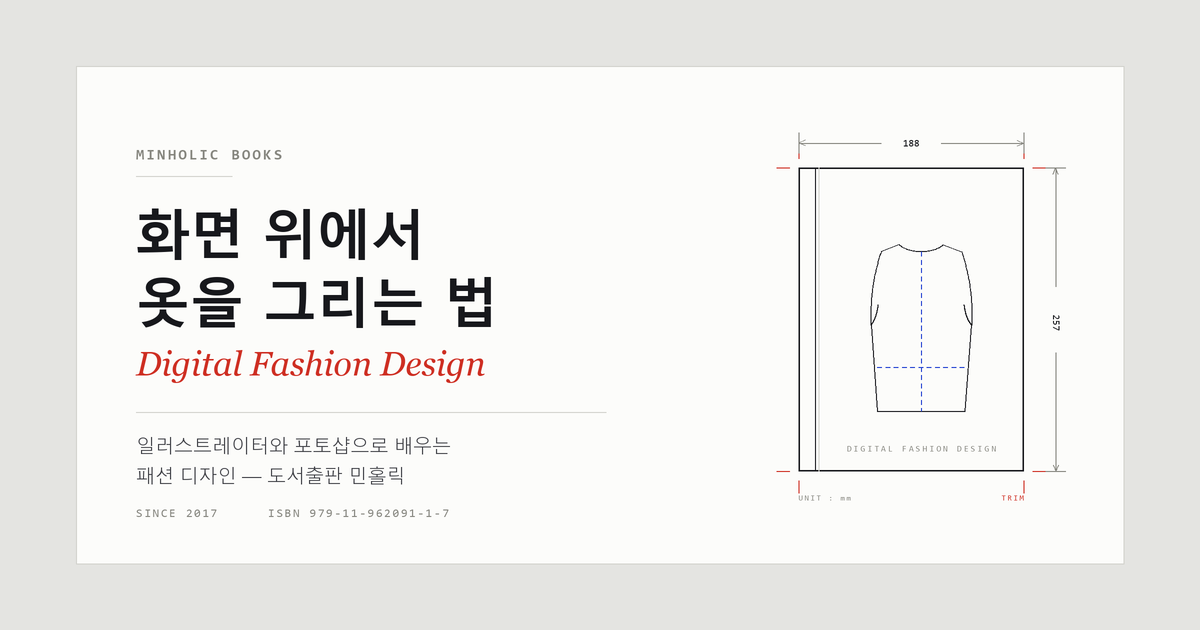
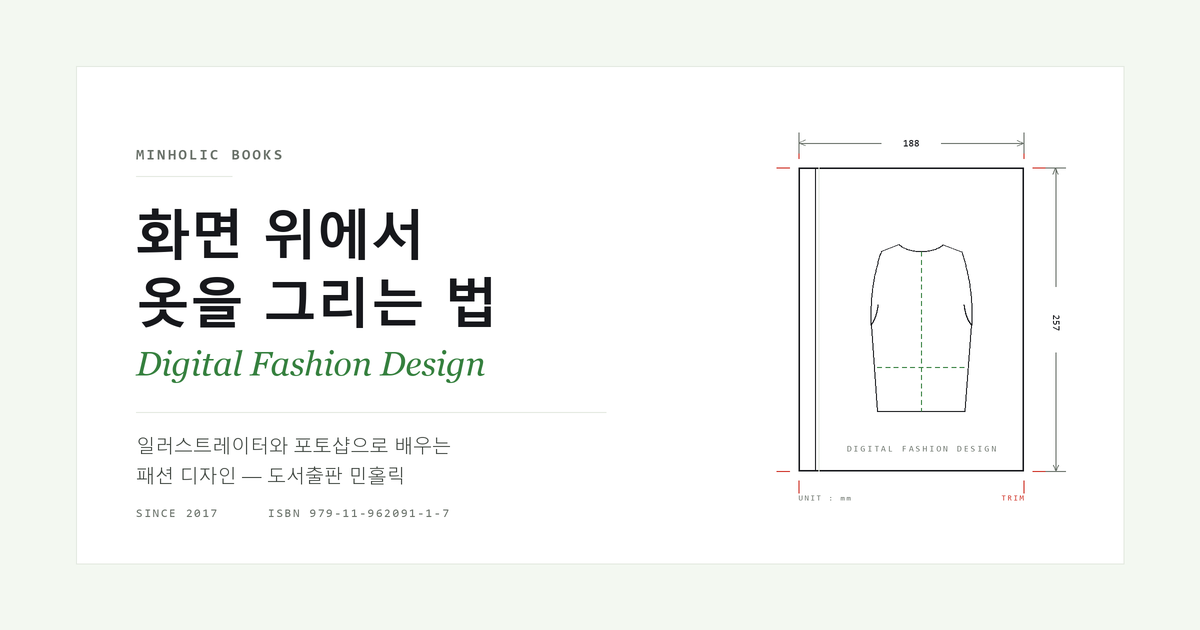
봄 팔레트로 개편 — 흰 바탕, 포인트 컬러 빨강·초록
바탕을 회색 캔버스에서 흰색으로 바꾸고 파랑 액센트를 초록으로 교체했다.

빨강과 초록을 같은 비중으로 쓰면 크리스마스처럼 보이므로 역할을 갈랐다.
빨강은 재단 표시·TRIM·도서 번호·워드마크 같은 인쇄 표시 계열에만 두고,
호버·포커스·태그·히어로 라틴은 전부 초록으로 옮겼다. 초록이 지배적이고
빨강은 소량이라 두 색이 부딪히지 않는다.

바탕이 흰색이 되면서 판면을 테두리로만 구분하게 됐다. 구분이 약한 곳
(연락처 카드, 소식 호버)에는 옅은 초록 --wash 를 깔았다.

--muted 는 흰 바탕과 --wash 두 곳에서 쓰이므로 둘 다 AA 를 넘겨야 한다.
초안의 #6E766E 는 wash 위에서 4.35:1 로 미달이라 #697169 로 내렸다.
개편 전 --muted 는 회색 캔버스 위에서 3.0:1 로 AA 미달이었다.

히어로 SVG 의 하드코딩된 색을 var() 로 바꿨다. 인라인 SVG 는 같은 문서의
커스텀 속성을 상속하므로, 앞으로 팔레트를 바꿀 때 SVG 를 따로 안 고쳐도 된다.

og.png 와 아이콘 3개는 구워진 이미지라 자동으로 안 바뀌므로 새 팔레트로
다시 생성했다. 안 하면 카카오톡 공유 미리보기만 옛 회색·파랑으로 남는다.

320~1600px 에서 가로 넘침 없음을 확인했다.

Changed region(s): [[0.0925, 0.5429, 0.4008, 0.6032]]

diff --git a/index.html b/index.html
@@ -13,7 +13,7 @@
 <link rel="icon" href="favicon.svg" type="image/svg+xml">
 <link rel="icon" href="favicon-32.png" sizes="32x32" type="image/png">
 <link rel="apple-touch-icon" href="apple-touch-icon.png">
-<meta name="theme-color" content="#E4E4E1">
+<meta name="theme-color" content="#FFFFFF">
 
 <!-- 소셜 공유 (Open Graph / 카카오톡 / 트위터) -->
 <meta property="og:type" content="website">
@@ -33,13 +33,18 @@
 <link href="https://fonts.googleapis.com/css2?family=Bodoni+Moda:ital,opsz,wght@0,6..96,400;0,6..96,500;1,6..96,400&family=IBM+Plex+Mono:wght@400;500&family=IBM+Plex+Sans+KR:wght@300;400;500;600;700&display=swap" rel="stylesheet">
 <style>
 :root{
-  --canvas:#E4E4E1;
-  --artboard:#FCFCFA;
-  --ink:#17181C;
-  --muted:#86867F;
-  --rule:#D2D2CD;
-  --red:#CE2E22;
-  --blue:#1F3FD1;
+  /* 봄 팔레트 — 흰 종이 바탕에 새잎 초록.
+     초록 = 브랜드·상호작용, 빨강 = 인쇄 재단 표시 계열.
+     둘을 같은 비중으로 쓰면 크리스마스처럼 보이므로 역할을 섞지 말 것. */
+  --canvas:#FFFFFF;   /* 페이지 바탕 */
+  --artboard:#FFFFFF; /* 판면 — 테두리로만 구분 */
+  --wash:#F3F8F1;     /* 옅은 초록 바탕 (호버, 연락처 카드) */
+  --ink:#17181C;      /* 제목·주요 선 */
+  --body:#3E453F;     /* 본문 */
+  --muted:#697169;    /* 라벨, 보조 텍스트, 치수선. 흰 바탕 5.0:1 / wash 4.7:1 로 둘 다 AA 통과 */
+  --rule:#E3E9E0;     /* 구분선, 테두리 */
+  --red:#CE2E22;      /* 재단 표시, TRIM, 도서 번호, 워드마크 */
+  --green:#35803E;    /* 히어로 라틴, 태그, 호버, 포커스 링, 도식화 중심선 */
 
   --kr:'IBM Plex Sans KR',system-ui,sans-serif;
   --mono:'IBM Plex Mono',ui-monospace,monospace;
@@ -71,7 +76,7 @@ img{max-width:100%;display:block}
 }
 .wrap{max-width:1120px;margin:0 auto;padding:0 var(--pad)}
 
-/* 아트보드 = 흰 판면 */
+/* 아트보드 = 판면. 바탕이 흰색이므로 테두리가 유일한 구분선이다 */
 .artboard{
   background:var(--artboard);
   border:1px solid var(--rule);
@@ -81,7 +86,7 @@ img{max-width:100%;display:block}
 /* ---------- 헤더 ---------- */
 header{
   position:sticky;top:0;z-index:50;
-  background:rgba(228,228,225,.92);
+  background:rgba(255,255,255,.88);
   backdrop-filter:blur(8px);
   border-bottom:1px solid var(--rule);
 }
@@ -96,7 +101,7 @@ nav a{
   font-size:13.5px;font-weight:500;text-decoration:none;color:var(--muted);
   padding:4px 0;border-bottom:1px solid transparent;transition:.18s;
 }
-nav a:hover{color:var(--ink);border-bottom-color:var(--red)}
+nav a:hover{color:var(--ink);border-bottom-color:var(--green)}
 
 /* ---------- 히어로 ---------- */
 .hero{padding:clamp(40px,7vw,84px) 0 clamp(48px,8vw,96px)}
@@ -114,10 +119,10 @@ nav a:hover{color:var(--ink);border-bottom-color:var(--red)}
 }
 .hero .latin{
   font-family:var(--didone);font-style:italic;font-weight:400;
-  font-size:clamp(19px,3vw,28px);color:var(--red);
+  font-size:clamp(19px,3vw,28px);color:var(--green);
   display:block;letter-spacing:.01em;margin-top:6px;
 }
-.hero p{max-width:44ch;color:#3D3E44;margin:20px 0 0;font-size:clamp(14.5px,1.5vw,16px)}
+.hero p{max-width:44ch;color:var(--body);margin:20px 0 0;font-size:clamp(14.5px,1.5vw,16px)}
 
 .specs{
   list-style:none;padding:20px 0 0;margin:26px 0 0;
@@ -133,7 +138,7 @@ nav a:hover{color:var(--ink);border-bottom-color:var(--red)}
   padding:13px 22px;font-size:14px;font-weight:500;
   transition:.18s;
 }
-.cta:hover{background:var(--red)}
+.cta:hover{background:var(--green)}
 .cta span{font-family:var(--mono);font-size:15px;line-height:1}
 
 /* ---------- 섹션 공통 ---------- */
@@ -145,7 +150,7 @@ section{padding:clamp(48px,7vw,92px) 0;border-top:1px solid var(--rule)}
 /* ---------- 도서 ---------- */
 .books{display:grid;grid-template-columns:repeat(auto-fill,minmax(260px,1fr));gap:clamp(16px,2.4vw,26px)}
 .book{padding:26px 24px 24px;display:flex;flex-direction:column;transition:.2s;text-decoration:none;color:inherit}
-.book:hover{transform:translateY(-3px);border-color:var(--ink)}
+.book:hover{transform:translateY(-3px);border-color:var(--green)}
 /* 재단 표시 */
 .book::before,.book::after{
   content:"";position:absolute;width:9px;height:9px;pointer-events:none;
@@ -156,7 +161,7 @@ section{padding:clamp(48px,7vw,92px) 0;border-top:1px solid var(--rule)}
 .book h3{font-size:18px;font-weight:600;letter-spacing:-.025em;margin:12px 0 0;line-height:1.4}
 .book .sub{font-family:var(--didone);font-style:italic;font-size:14px;color:var(--muted);margin-top:5px;flex:none}
 /* 설명 문단만 남는 공간을 흡수해야 카드 높이가 달라도 위쪽이 벌어지지 않는다 */
-.book p{font-size:14px;color:#4B4C52;margin:14px 0 0;flex:1}
+.book p{font-size:14px;color:var(--body);margin:14px 0 0;flex:1}
 .book .meta{
   margin-top:20px;padding-top:14px;border-top:1px dashed var(--rule);
   font-family:var(--mono);font-size:11px;color:var(--muted);
@@ -169,20 +174,21 @@ section{padding:clamp(48px,7vw,92px) 0;border-top:1px solid var(--rule)}
   display:grid;grid-template-columns:96px 1fr auto;gap:20px;align-items:baseline;
   padding:20px 4px;border-bottom:1px solid var(--rule);text-decoration:none;transition:.16s;
 }
-.news a:hover{background:var(--artboard);padding-left:14px}
+.news a:hover{background:var(--wash);padding-left:14px}
 .news time{font-family:var(--mono);font-size:12px;color:var(--muted)}
 .news .t{font-size:15.5px;font-weight:500;letter-spacing:-.02em}
-.news .tag{font-family:var(--mono);font-size:10.5px;letter-spacing:.1em;color:var(--blue);text-transform:uppercase}
+.news .tag{font-family:var(--mono);font-size:10.5px;letter-spacing:.1em;color:var(--green);text-transform:uppercase}
 
 /* ---------- 소개 ---------- */
 .about{display:grid;grid-template-columns:minmax(0,1.15fr) minmax(0,.85fr);gap:clamp(28px,5vw,64px)}
-.about p{margin:0 0 16px;font-size:15px;color:#3D3E44;max-width:52ch}
-.contact{padding:30px 28px;align-self:start}
+.about p{margin:0 0 16px;font-size:15px;color:var(--body);max-width:52ch}
+/* 흰 바탕에서는 테두리만으로 약하므로 연락처 카드만 옅은 초록을 깐다 */
+.contact{padding:30px 28px;align-self:start;background:var(--wash)}
 .contact dl{margin:0;display:grid;grid-template-columns:64px 1fr;gap:13px 16px;align-items:baseline}
 .contact dt{font-family:var(--mono);font-size:10.5px;letter-spacing:.1em;color:var(--muted);text-transform:uppercase}
 .contact dd{margin:0;font-size:14px;font-weight:500;word-break:break-all}
-.contact dd a{text-decoration:none;border-bottom:1px solid var(--rule)}
-.contact dd a:hover{border-bottom-color:var(--red);color:var(--red)}
+.contact dd a{text-decoration:none;border-bottom:1px solid var(--muted)}
+.contact dd a:hover{border-bottom-color:var(--green);color:var(--green)}
 
 footer{
   border-top:1px solid var(--rule);padding:30px 0 44px;
@@ -194,7 +200,7 @@ footer .label{margin-left:auto}
 .rise{opacity:0;transform:translateY(14px);transition:opacity .5s ease,transform .5s ease}
 .rise.in{opacity:1;transform:none}
 
-:focus-visible{outline:2px solid var(--blue);outline-offset:3px}
+:focus-visible{outline:2px solid var(--green);outline-offset:3px}
 
 @media (max-width:860px){
   .hero-grid{grid-template-columns:1fr}
@@ -235,15 +241,15 @@ footer .label{margin-left:auto}
         <svg viewBox="0 0 400 470" role="img" aria-label="교재 판형을 치수선으로 표시한 도식화">
           <defs>
             <marker id="ar" markerWidth="8" markerHeight="8" refX="7" refY="4" orient="auto">
-              <path d="M0,1 L7,4 L0,7" fill="none" stroke="#86867F" stroke-width="1"/>
+              <path d="M0,1 L7,4 L0,7" fill="none" stroke="var(--muted)" stroke-width="1"/>
             </marker>
             <marker id="al" markerWidth="8" markerHeight="8" refX="1" refY="4" orient="auto">
-              <path d="M8,1 L1,4 L8,7" fill="none" stroke="#86867F" stroke-width="1"/>
+              <path d="M8,1 L1,4 L8,7" fill="none" stroke="var(--muted)" stroke-width="1"/>
             </marker>
           </defs>
 
           <!-- 재단 표시 -->
-          <g stroke="#CE2E22" stroke-width="1">
+          <g stroke="var(--red)" stroke-width="1">
             <path d="M52,74 h-14 M62,64 v-14"/>
             <path d="M318,74 h14 M308,64 v-14"/>
             <path d="M52,406 h-14 M62,416 v14"/>
@@ -251,13 +257,13 @@ footer .label{margin-left:auto}
           </g>
 
           <!-- 판면 -->
-          <rect x="62" y="74" width="246" height="332" fill="none" stroke="#17181C" stroke-width="1.4"/>
+          <rect x="62" y="74" width="246" height="332" fill="none" stroke="var(--ink)" stroke-width="1.4"/>
           <!-- 책등 -->
-          <line x1="80" y1="74" x2="80" y2="406" stroke="#17181C" stroke-width="1"/>
-          <line x1="84" y1="74" x2="84" y2="406" stroke="#D2D2CD" stroke-width="1"/>
+          <line x1="80" y1="74" x2="80" y2="406" stroke="var(--ink)" stroke-width="1"/>
+          <line x1="84" y1="74" x2="84" y2="406" stroke="var(--rule)" stroke-width="1"/>
 
           <!-- 도식화 : 민소매 원피스 플랫 -->
-          <g fill="none" stroke="#17181C" stroke-width="1.2" stroke-linejoin="round">
+          <g fill="none" stroke="var(--ink)" stroke-width="1.2" stroke-linejoin="round">
             <path d="M172,158 C182,168 210,168 220,158"/>
             <path d="M172,158 L152,166 C142,196 140,222 141,246"/>
             <path d="M220,158 L240,166 C250,196 252,222 251,246"/>
@@ -265,31 +271,31 @@ footer .label{margin-left:auto}
             <path d="M141,246 C146,240 148,232 149,224"/>
             <path d="M251,246 C246,240 244,232 243,224"/>
           </g>
-          <line x1="196" y1="166" x2="196" y2="340" stroke="#1F3FD1" stroke-width="1" stroke-dasharray="5 4"/>
-          <line x1="148" y1="292" x2="244" y2="292" stroke="#1F3FD1" stroke-width="1" stroke-dasharray="5 4"/>
+          <line x1="196" y1="166" x2="196" y2="340" stroke="var(--green)" stroke-width="1" stroke-dasharray="5 4"/>
+          <line x1="148" y1="292" x2="244" y2="292" stroke="var(--green)" stroke-width="1" stroke-dasharray="5 4"/>
 
-          <text x="196" y="384" text-anchor="middle" font-family="IBM Plex Mono,monospace" font-size="9.5" letter-spacing="2.6" fill="#86867F">DIGITAL FASHION DESIGN</text>
+          <text x="196" y="384" text-anchor="middle" font-family="IBM Plex Mono,monospace" font-size="9.5" letter-spacing="2.6" fill="var(--muted)">DIGITAL FASHION DESIGN</text>
 
           <!-- 가로 치수선 -->
-          <g stroke="#86867F" stroke-width="1">
+          <g stroke="var(--muted)" stroke-width="1">
             <line x1="62" y1="36" x2="62" y2="58"/>
             <line x1="308" y1="36" x2="308" y2="58"/>
             <line x1="62" y1="47" x2="152" y2="47" marker-start="url(#al)"/>
             <line x1="218" y1="47" x2="308" y2="47" marker-end="url(#ar)"/>
           </g>
-          <text x="185" y="51" text-anchor="middle" font-family="IBM Plex Mono,monospace" font-size="11" fill="#17181C">188</text>
+          <text x="185" y="51" text-anchor="middle" font-family="IBM Plex Mono,monospace" font-size="11" fill="var(--ink)">188</text>
 
           <!-- 세로 치수선 -->
-          <g stroke="#86867F" stroke-width="1">
+          <g stroke="var(--muted)" stroke-width="1">
             <line x1="332" y1="74" x2="354" y2="74"/>
             <line x1="332" y1="406" x2="354" y2="406"/>
             <line x1="343" y1="74" x2="343" y2="204" marker-start="url(#al)"/>
             <line x1="343" y1="276" x2="343" y2="406" marker-end="url(#ar)"/>
           </g>
-          <text x="343" y="244" text-anchor="middle" font-family="IBM Plex Mono,monospace" font-size="11" fill="#17181C" transform="rotate(90 343 244)">257</text>
+          <text x="343" y="244" text-anchor="middle" font-family="IBM Plex Mono,monospace" font-size="11" fill="var(--ink)" transform="rotate(90 343 244)">257</text>
 
-          <text x="62" y="438" font-family="IBM Plex Mono,monospace" font-size="9" letter-spacing="1.6" fill="#86867F">UNIT : mm</text>
-          <text x="308" y="438" text-anchor="end" font-family="IBM Plex Mono,monospace" font-size="9" letter-spacing="1.6" fill="#CE2E22">TRIM</text>
+          <text x="62" y="438" font-family="IBM Plex Mono,monospace" font-size="9" letter-spacing="1.6" fill="var(--muted)">UNIT : mm</text>
+          <text x="308" y="438" text-anchor="end" font-family="IBM Plex Mono,monospace" font-size="9" letter-spacing="1.6" fill="var(--red)">TRIM</text>
         </svg>
       </figure>
 

diff --git a/README.md b/README.md
@@ -56,7 +56,7 @@ git add -A && git commit -m "수정 내용" && git push
 | 도서 카드 | `<section id="books">` 안의 `<a class="artboard book">` 블록 복사 |
 | 소식 목록 | `<section id="news">` 안의 `<a>` 블록 |
 | 연락처 | `<div class="artboard contact">` 안의 `<dl>` |
-| 색상 | 최상단 `:root` 의 `--red`, `--blue` 등 |
+| 색상 | 최상단 `:root` 의 `--red`, `--green`, `--wash` 등 |
 | 사이트 주소 | `<head>` 의 `canonical`, `og:url`, `og:image` |
 
 ## 남은 작업
@@ -67,3 +67,5 @@ git add -A && git commit -m "수정 내용" && git push
 - 소식 항목의 `href="#"`를 실제 링크(카페 글 등)로 바꾸면 바로 동작합니다.
 - 표지 이미지를 넣으려면 `images/` 폴더를 만들고 카드 안에 `<img>`를 추가하면 됩니다.
 - 사이트 주소 확정 후 `<head>`의 절대 URL 3곳을 교체해야 소셜 공유 미리보기가 뜹니다.
+- 색을 바꿀 때는 `:root` 토큰만 고치면 인라인 SVG까지 따라옵니다. 단 `og.png`와 아이콘
+  PNG 3개는 구워진 이미지라 따로 다시 만들어야 합니다.
